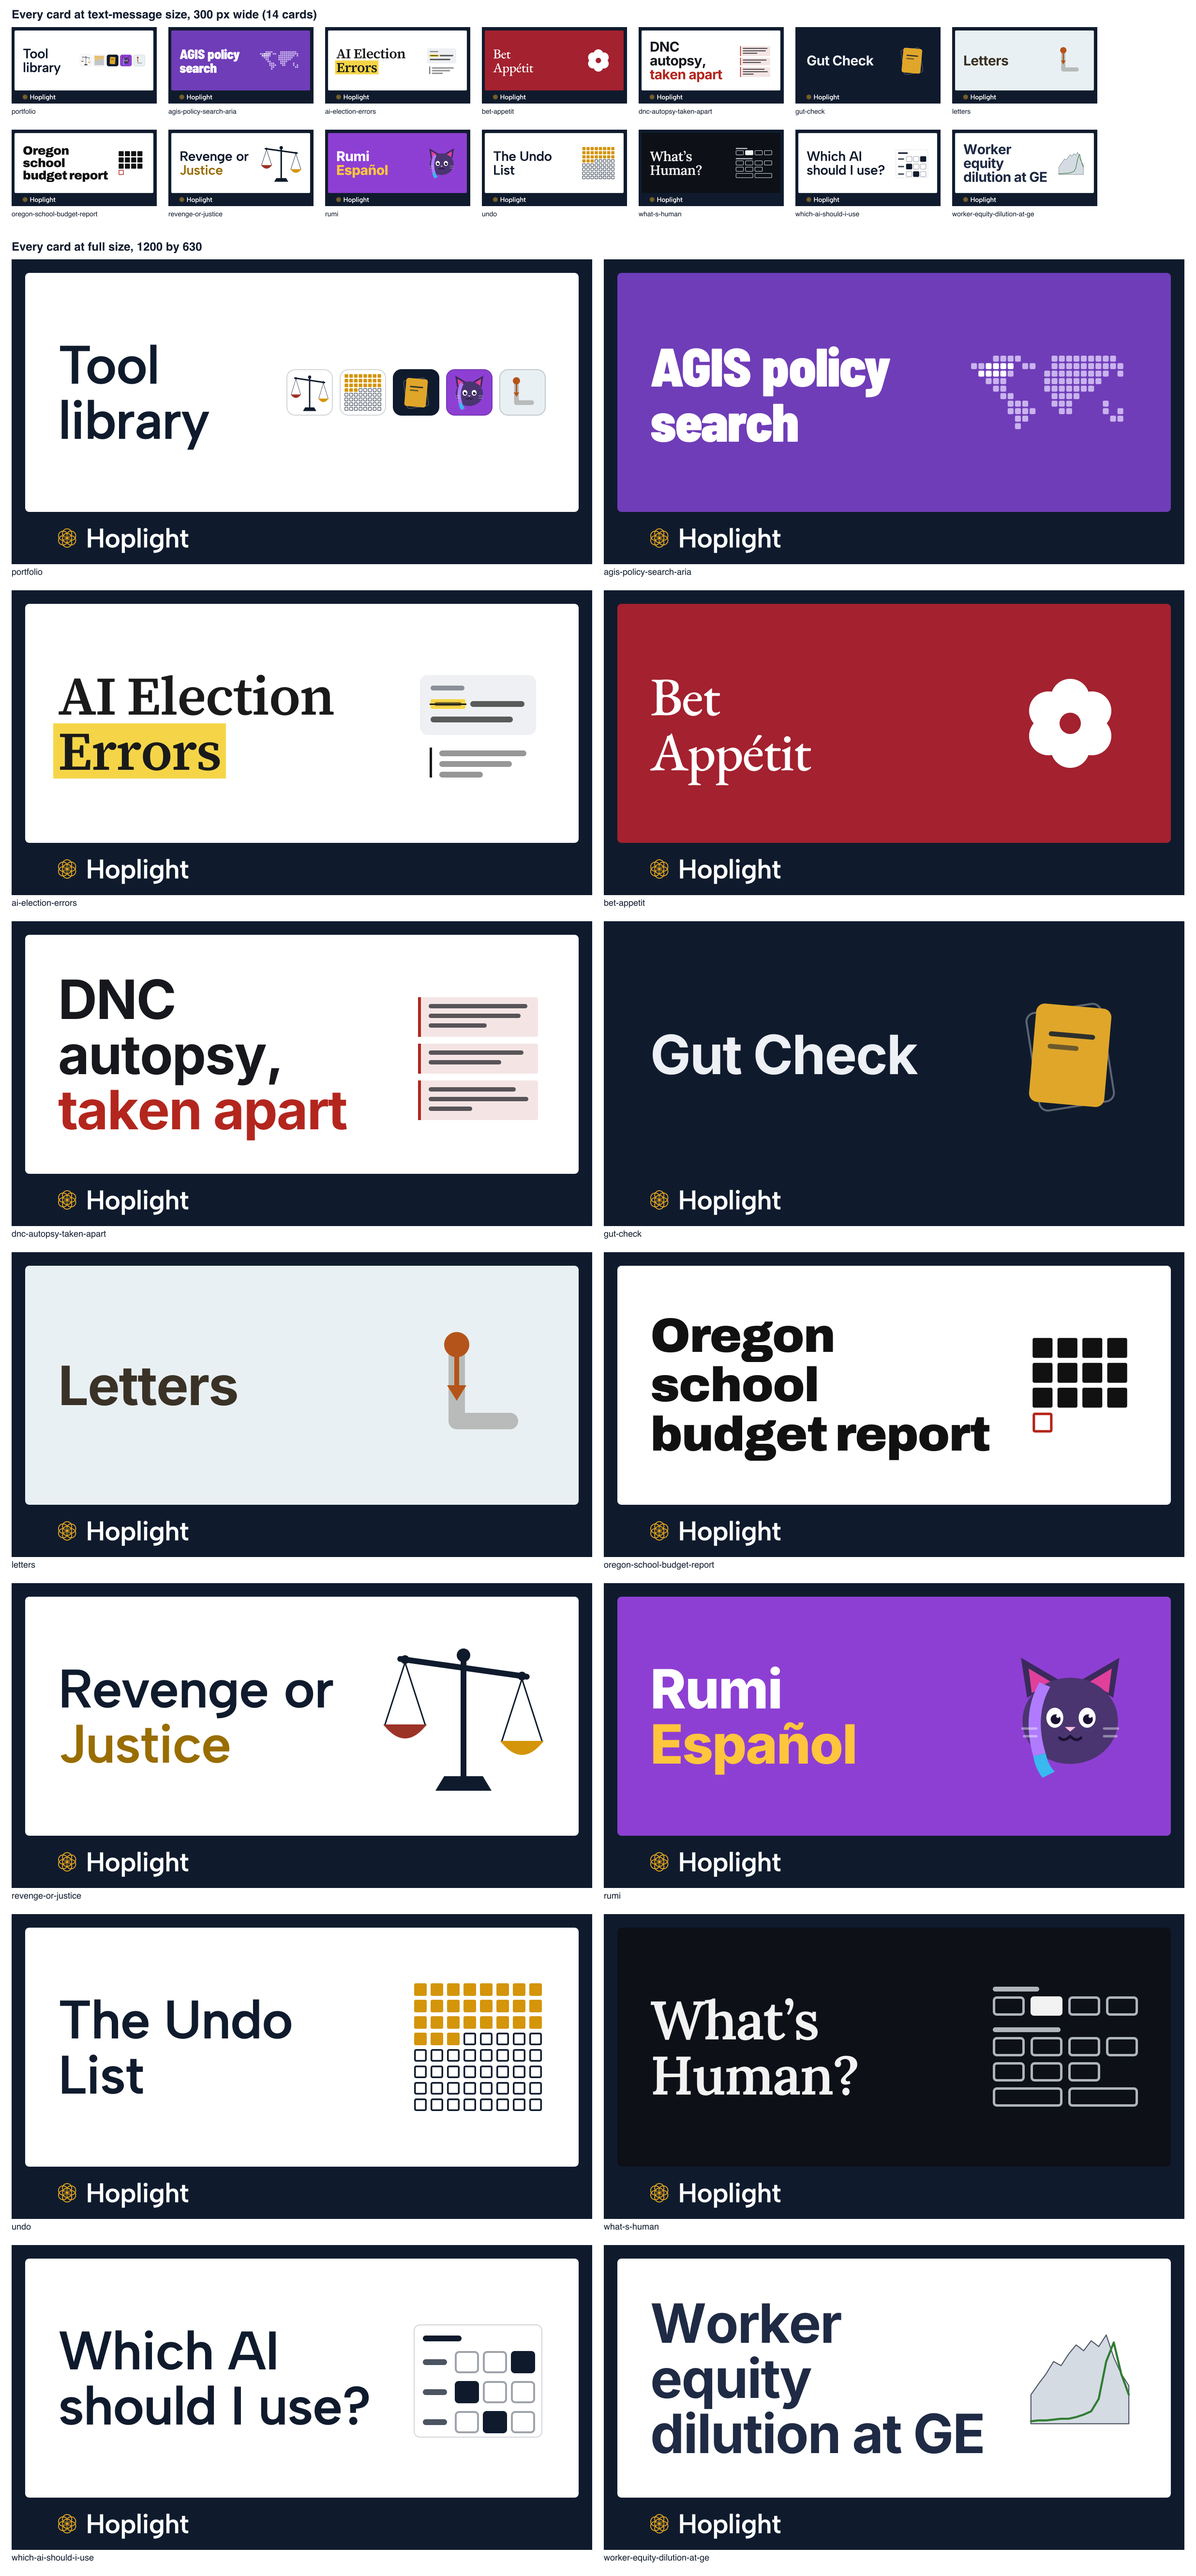
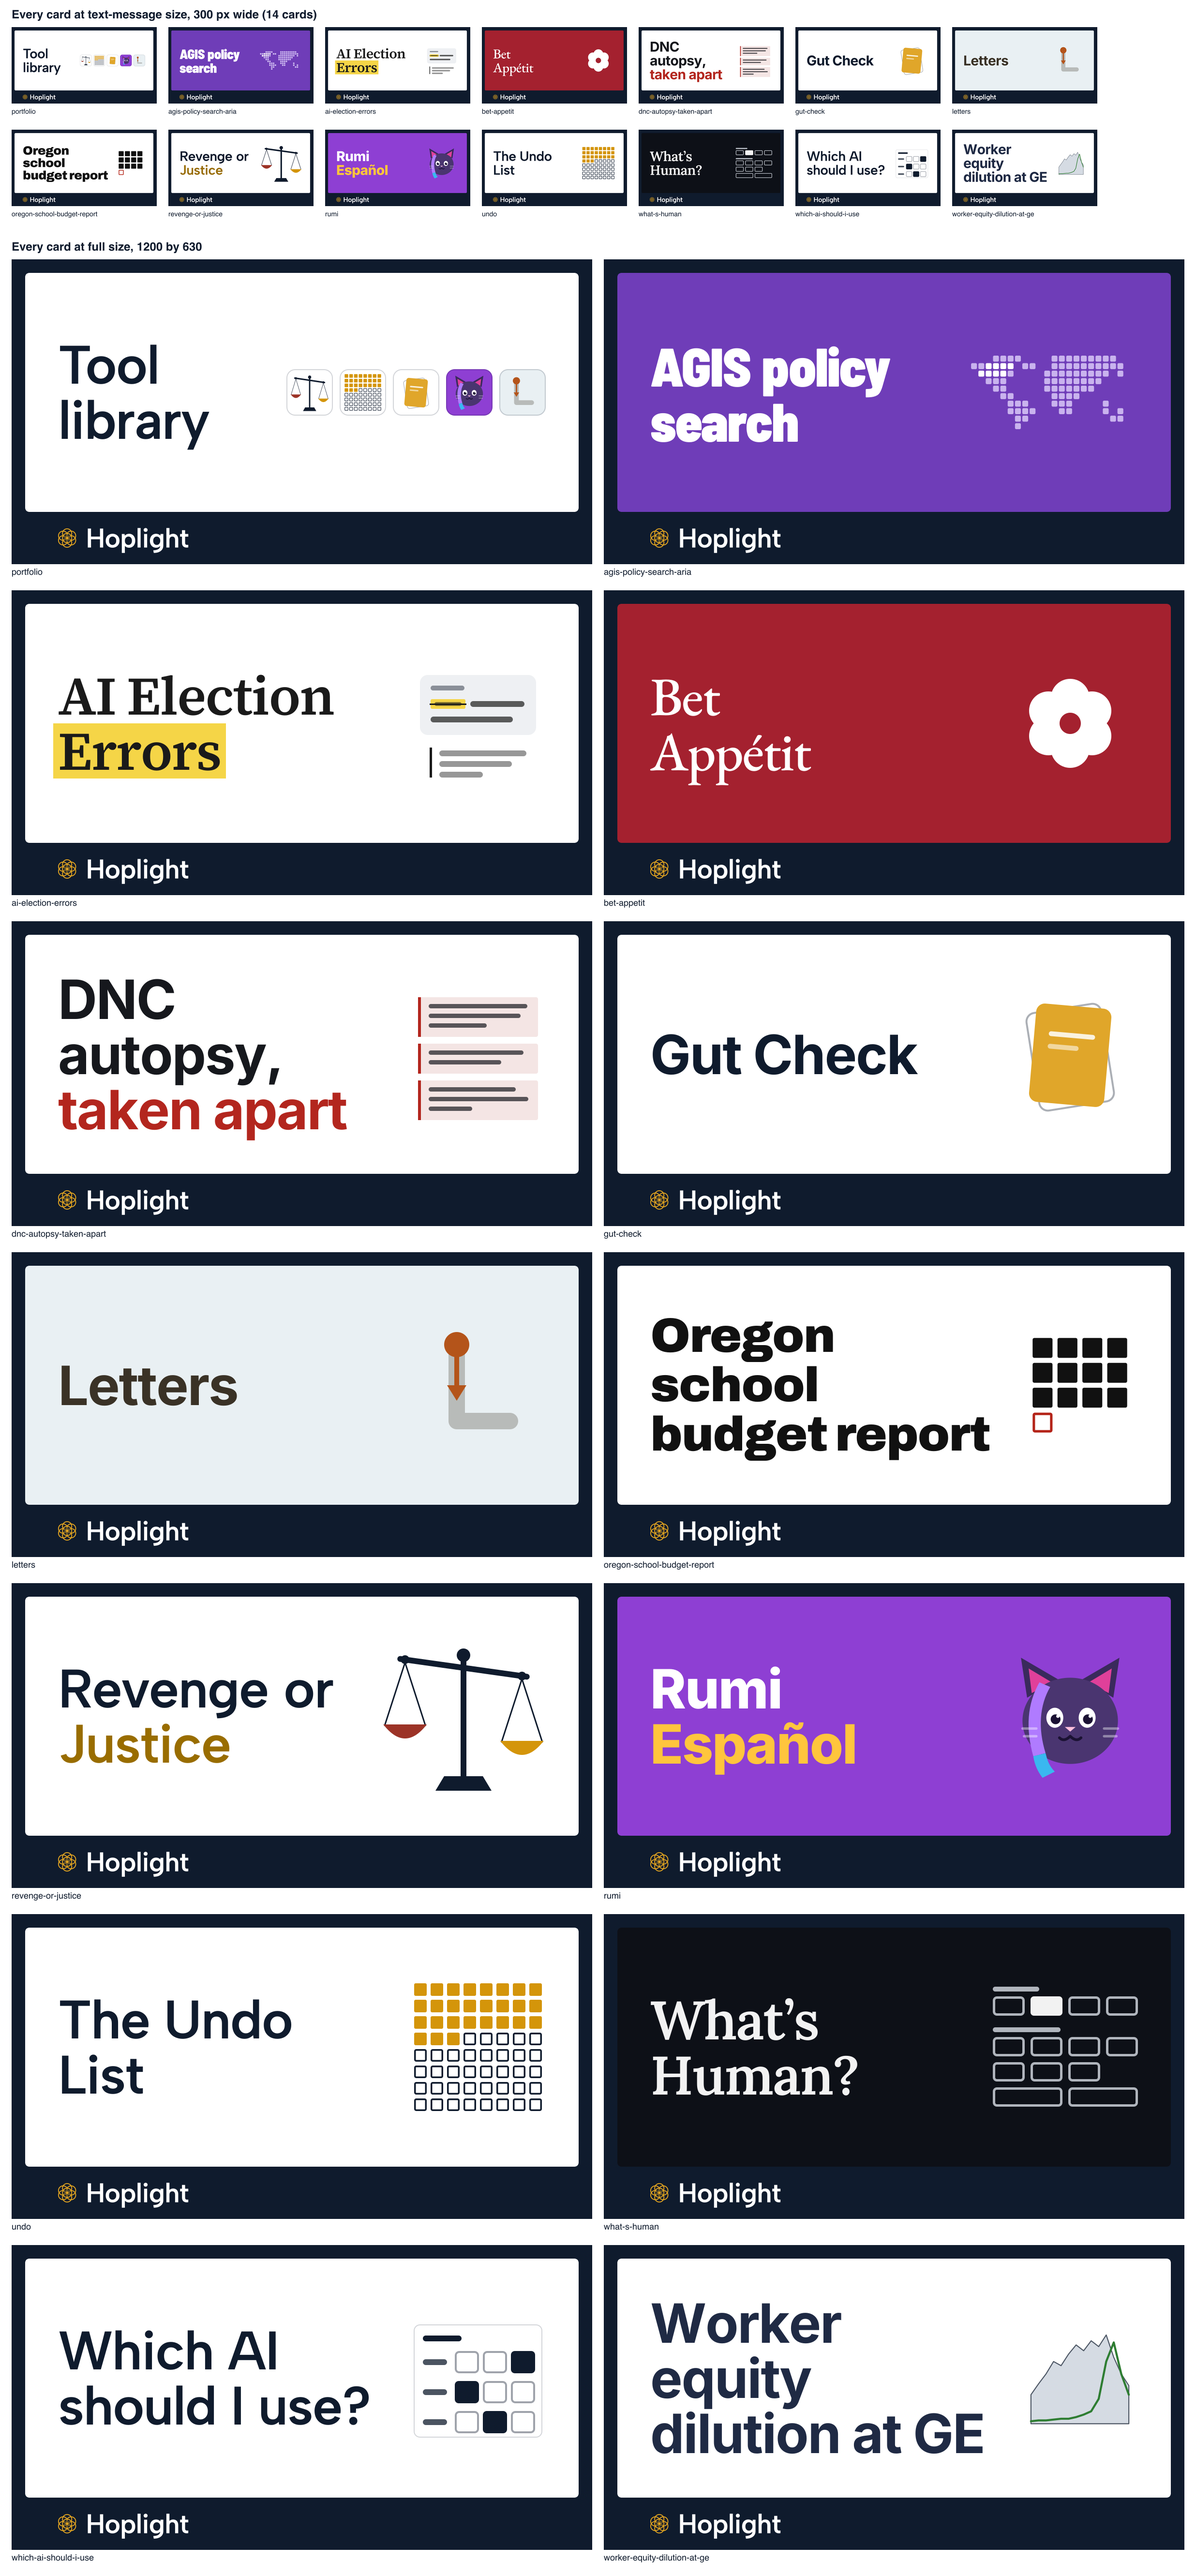
cards: Gut Check's card field goes white with navy type, as its live app is, so the navy frame shows on its card (it was the mat's own navy, one block); a test refuses any tool ground equal to the mat's navy, red 1 of 6 then 6 of 6; cards re-exported (Gut Check and the portfolio card's Gut Check til

Changed region(s): [[0.4984, 0.343, 0.9968, 0.4677], [0.6541, 0.0, 0.7787, 0.0624], [0.3115, 0.1247, 0.3738, 0.1871]]

diff --git a/src/data/tools.ts b/src/data/tools.ts
@@ -138,11 +138,12 @@ export const TOOLS: Tool[] = [
     href: 'https://gut-check-hoplight.vercel.app/play',
     kind: 'live',
     shelf: 'product',
-    // Read from gut-check-hoplight.vercel.app/play on 2026-11-07: navy and gold, Inter.
+    // Read from gut-check-hoplight.vercel.app/play on 2026-11-07: white with navy type and gold, Inter
+    // (card-frames.html, counted that day). White, not navy, so the card's navy frame shows (CARDLIVE1).
     brand: {
-      ground: NAVY,
+      ground: WHITE,
       accent: '#E0A62A',
-      ink: '#EDF0F4',
+      ink: NAVY,
       display: { family: 'Inter', weight: 700 },
       wordmark: [{ text: 'Gut Check' }],
       glyph: 'cards',
